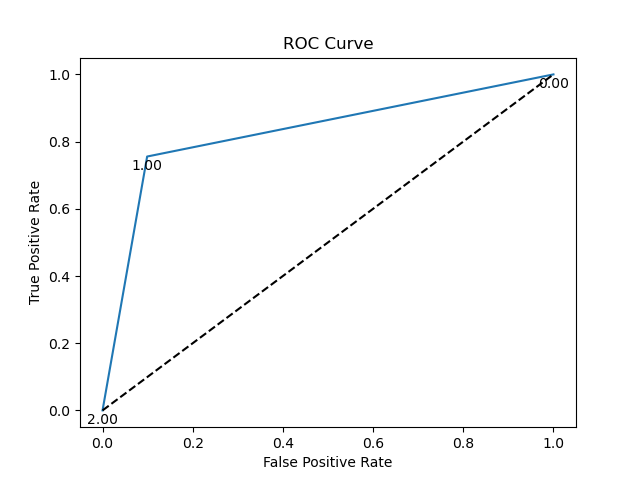
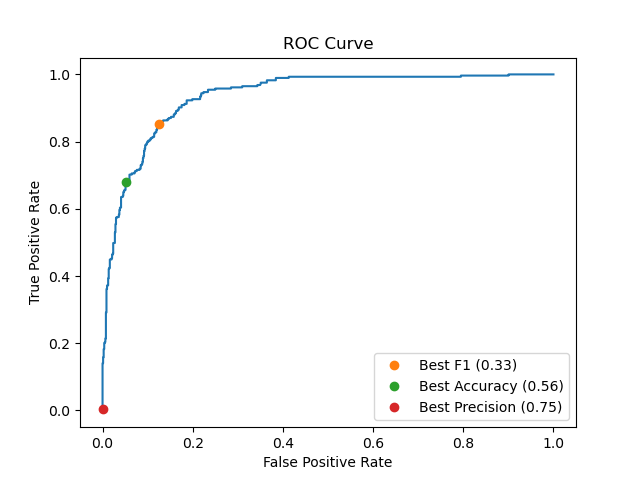
Added Temp roc_curve and edited utility function

diff --git a/utility.py b/utility.py
@@ -77,11 +77,26 @@ def churn_eval_metrics(Y_pred, Y_test, logger):
 
 def plot_roc_curve(Y_pred, Y_test,plotting_dir):
     fpr, tpr, thresholds = roc_curve(Y_test, Y_pred, pos_label = 1)
+    f1_scores = [f1_score(Y_test, Y_pred >= t) for t in thresholds]
+    accuracy_scores = [accuracy_score(Y_test, Y_pred >= t) for t in thresholds]
+    precision_scores = [precision_score(Y_test, Y_pred >= t) for t in thresholds]
+
+    # Find the threshold values that maximize F1, accuracy, and precision
+    best_f1_threshold = thresholds[np.argmax(f1_scores)]
+    best_acc_threshold = thresholds[np.argmax(accuracy_scores)]
+    best_precision_threshold = thresholds[np.argmax(precision_scores)]
+
+    # Plot the ROC curve
     plt.plot(fpr, tpr)
-    plt.plot([0, 1], [0, 1], 'k--')
+
+    # Label the points for the best F1, best accuracy, and best precision
+    plt.plot(fpr[np.argmax(f1_scores)], tpr[np.argmax(f1_scores)], 'o', label=f'Best F1 ({best_f1_threshold:.2f})')
+    plt.plot(fpr[np.argmax(accuracy_scores)], tpr[np.argmax(accuracy_scores)], 'o', label=f'Best Accuracy ({best_acc_threshold:.2f})')
+    plt.plot(fpr[np.argmax(precision_scores)], tpr[np.argmax(precision_scores)], 'o', label=f'Best Precision ({best_precision_threshold:.2f})')
+
+    # Add labels and legend
     plt.xlabel('False Positive Rate')
     plt.ylabel('True Positive Rate')
     plt.title('ROC Curve')
-    for i, threshold in enumerate(thresholds):
-        plt.annotate(f"{threshold:.2f}", (fpr[i], tpr[i]), textcoords='offset points', xytext=(0,-10), ha='center')
+    plt.legend()
     plt.savefig(plotting_dir)
